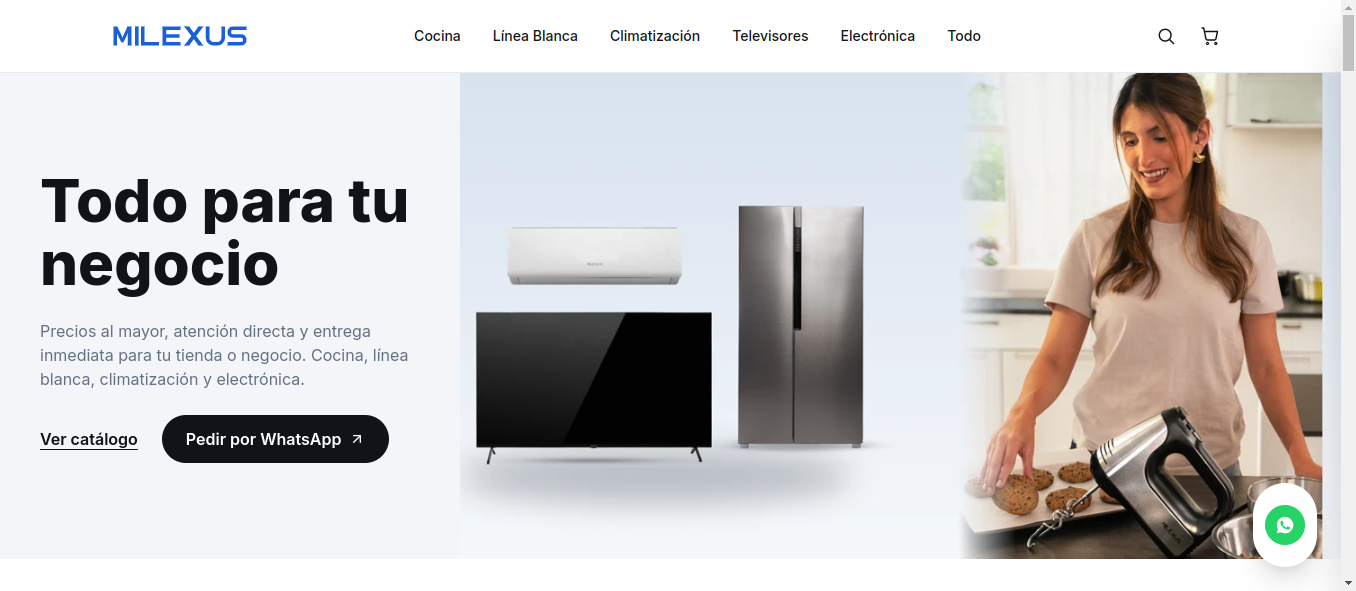
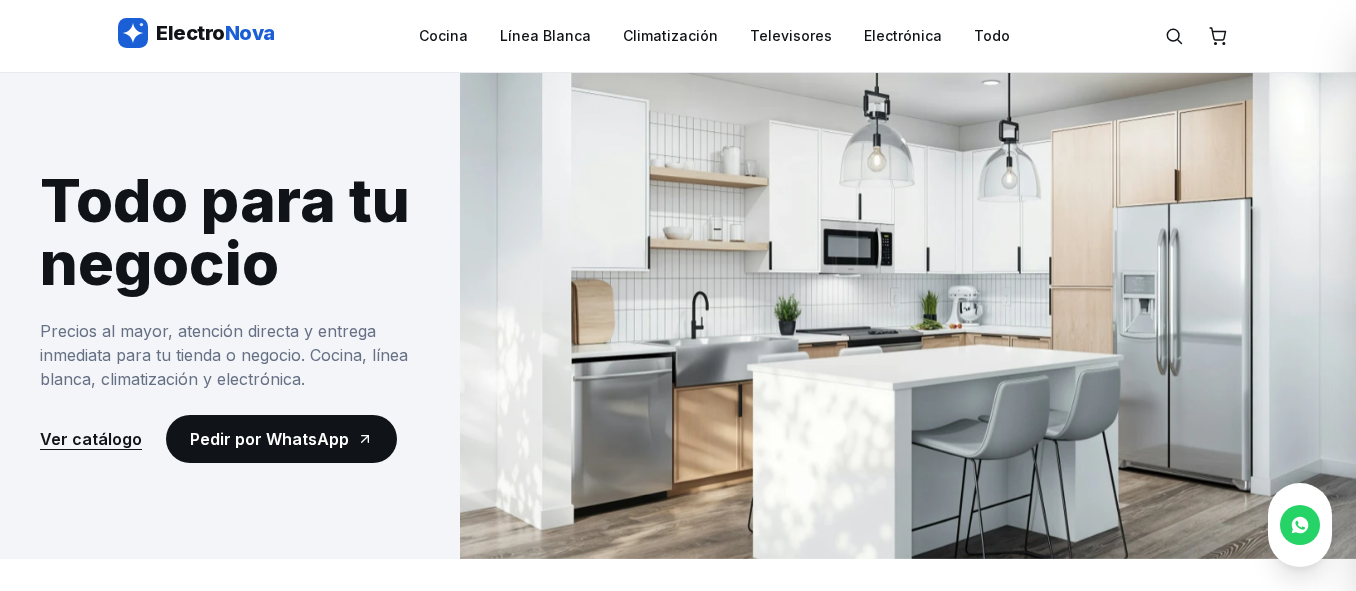
Add ElectroNova demo to portfolio and update store descriptions

diff --git a/src/i18n/translations.js b/src/i18n/translations.js
@@ -49,7 +49,7 @@ export const translations = {
         comingSoon: false,
       },
       {
-        nombre: 'Tienda de ropa deportiva',
+        nombre: 'Urban Sport',
         resumen: 'Demo de tienda online con carrito editable y pedido por WhatsApp',
         url: 'https://totallooks.netlify.app/',
         comingSoon: false,
@@ -338,10 +338,10 @@ export const translations = {
       subtitulo: 'Nuestros trabajos más recientes, en producción y generando ventas ahora mismo.',
       proyectos: [
         {
-          nombre: 'Tienda de ropa deportiva',
+          nombre: 'Urban Sport',
           tipo: 'Tienda online (demo)',
           descripcion:
-            'Propuesta de tienda online para un negocio de ropa deportiva y calzado: catálogo con filtros y búsqueda, favoritos, carrito editable y pedido directo por WhatsApp. Es una demo — no está en producción ni hay un acuerdo cerrado con el negocio.',
+            'Tienda online de ropa deportiva y calzado: catálogo con filtros por categoría, marca, talla y color, búsqueda de productos, favoritos, carrito editable y pedido directo por WhatsApp.',
           stack: ['Next.js', 'Tailwind', 'WhatsApp', 'TypeScript'],
           url: 'https://totallooks.netlify.app/',
         },
@@ -361,15 +361,14 @@ export const translations = {
           stack: ['React', 'Vite', 'Tailwind'],
           url: 'https://exquisite-moonbeam-d6277b.netlify.app/',
         },
-        // Oculto temporalmente hasta tener una copia con marca ficticia.
-        // {
-        //   nombre: 'Distribuidor de electrodomésticos',
-        //   tipo: 'Tienda online al mayor (demo)',
-        //   descripcion:
-        //     'Propuesta de tienda online para un distribuidor de electrodomésticos que vende solo al mayor: catálogo por categoría (cocina, línea blanca, climatización y más) con filtros, carrito y pedido directo por WhatsApp. Es una demo — no está en producción ni hay un acuerdo cerrado con el negocio.',
-        //   stack: ['Next.js', 'Tailwind', 'WhatsApp', 'TypeScript'],
-        //   url: 'https://amazing-phoenix-5a2161.netlify.app/',
-        // },
+        {
+          nombre: 'ElectroNova',
+          tipo: 'Tienda online al mayor (demo)',
+          descripcion:
+            'Tienda online mayorista de electrodomésticos: catálogo por categoría (cocina, línea blanca, climatización, televisores y electrónica) con filtros y búsqueda, carrito y solicitud de cotización directa por WhatsApp.',
+          stack: ['Next.js', 'Tailwind', 'WhatsApp', 'TypeScript'],
+          url: 'https://amazing-phoenix-5a2161.netlify.app/',
+        },
         {
           nombre: 'Casa Clínica',
           tipo: 'Catálogo online (demo)',
@@ -497,7 +496,7 @@ export const translations = {
         comingSoon: false,
       },
       {
-        nombre: 'Tienda de ropa deportiva',
+        nombre: 'Urban Sport',
         resumen: 'Online store demo with an editable cart and WhatsApp ordering',
         url: 'https://totallooks.netlify.app/',
         comingSoon: false,
@@ -785,10 +784,10 @@ export const translations = {
       subtitulo: 'Our most recent work, in production and generating sales right now.',
       proyectos: [
         {
-          nombre: 'Tienda de ropa deportiva',
+          nombre: 'Urban Sport',
           tipo: 'Online store (demo)',
           descripcion:
-            'Online store proposal for a sportswear and footwear business: catalog with filters and search, favorites, an editable cart, and direct ordering via WhatsApp. This is a demo — it is not in production and there is no signed agreement with the business.',
+            'Online store for sportswear and footwear: catalog with filters by category, brand, size and color, product search, favorites, an editable cart, and direct ordering via WhatsApp.',
           stack: ['Next.js', 'Tailwind', 'WhatsApp', 'TypeScript'],
           url: 'https://totallooks.netlify.app/',
         },
@@ -808,15 +807,14 @@ export const translations = {
           stack: ['React', 'Vite', 'Tailwind'],
           url: 'https://exquisite-moonbeam-d6277b.netlify.app/',
         },
-        // Oculto temporalmente hasta tener una copia con marca ficticia.
-        // {
-        //   nombre: 'Distribuidor de electrodomésticos',
-        //   tipo: 'Wholesale online store (demo)',
-        //   descripcion:
-        //     'Online store proposal for a home appliance distributor that sells wholesale only: catalog by category (kitchen, white goods, climate control and more) with filters, a cart, and direct ordering via WhatsApp. This is a demo — it is not in production and there is no signed agreement with the business.',
-        //   stack: ['Next.js', 'Tailwind', 'WhatsApp', 'TypeScript'],
-        //   url: 'https://amazing-phoenix-5a2161.netlify.app/',
-        // },
+        {
+          nombre: 'ElectroNova',
+          tipo: 'Wholesale online store (demo)',
+          descripcion:
+            'Wholesale online store for home appliances: catalog by category (kitchen, white goods, climate control, TVs and electronics) with filters and search, a cart, and direct quote requests via WhatsApp.',
+          stack: ['Next.js', 'Tailwind', 'WhatsApp', 'TypeScript'],
+          url: 'https://amazing-phoenix-5a2161.netlify.app/',
+        },
         {
           nombre: 'Casa Clínica',
           tipo: 'Online catalog (demo)',

diff --git a/src/pages/Portafolio.jsx b/src/pages/Portafolio.jsx
@@ -16,8 +16,8 @@ const PROJECT_PREVIEWS = {
   AiresVal: airesvalPreview,
   Vera: veraPreview,
   'Casa Clínica': casaclinicaPreview,
-  'Tienda de ropa deportiva': totallooksPreview,
-  'Distribuidor de electrodomésticos': milexusPreview,
+  'Urban Sport': totallooksPreview,
+  'ElectroNova': milexusPreview,
 }
 
 function Portafolio() {

diff --git a/src/pages/Inicio.jsx b/src/pages/Inicio.jsx
@@ -13,7 +13,7 @@ const PROJECT_PREVIEWS = {
   Olax: olaxPreview,
   Vera: veraPreview,
   'Casa Clínica': casaclinicaPreview,
-  'Tienda de ropa deportiva': totallooksPreview,
+  'Urban Sport': totallooksPreview,
 }
 
 const SERVICE_ICONS = {
